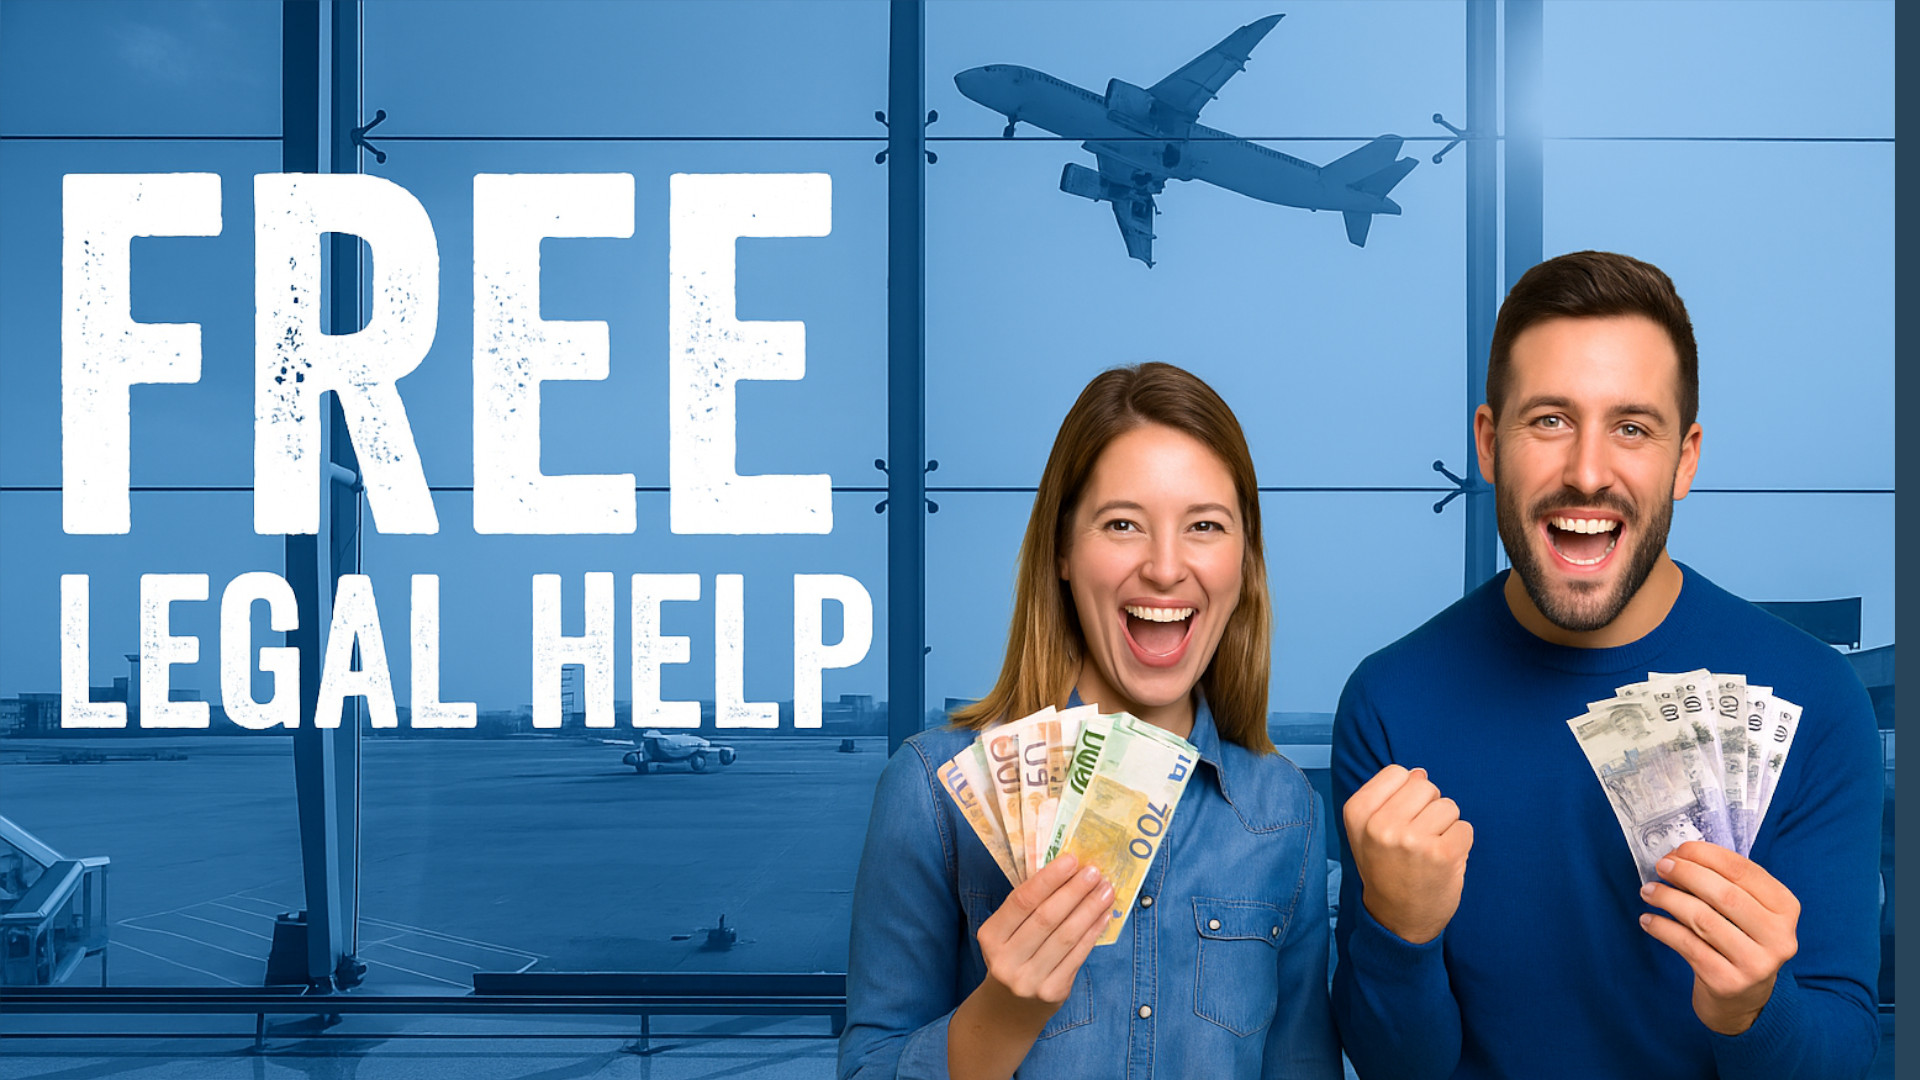
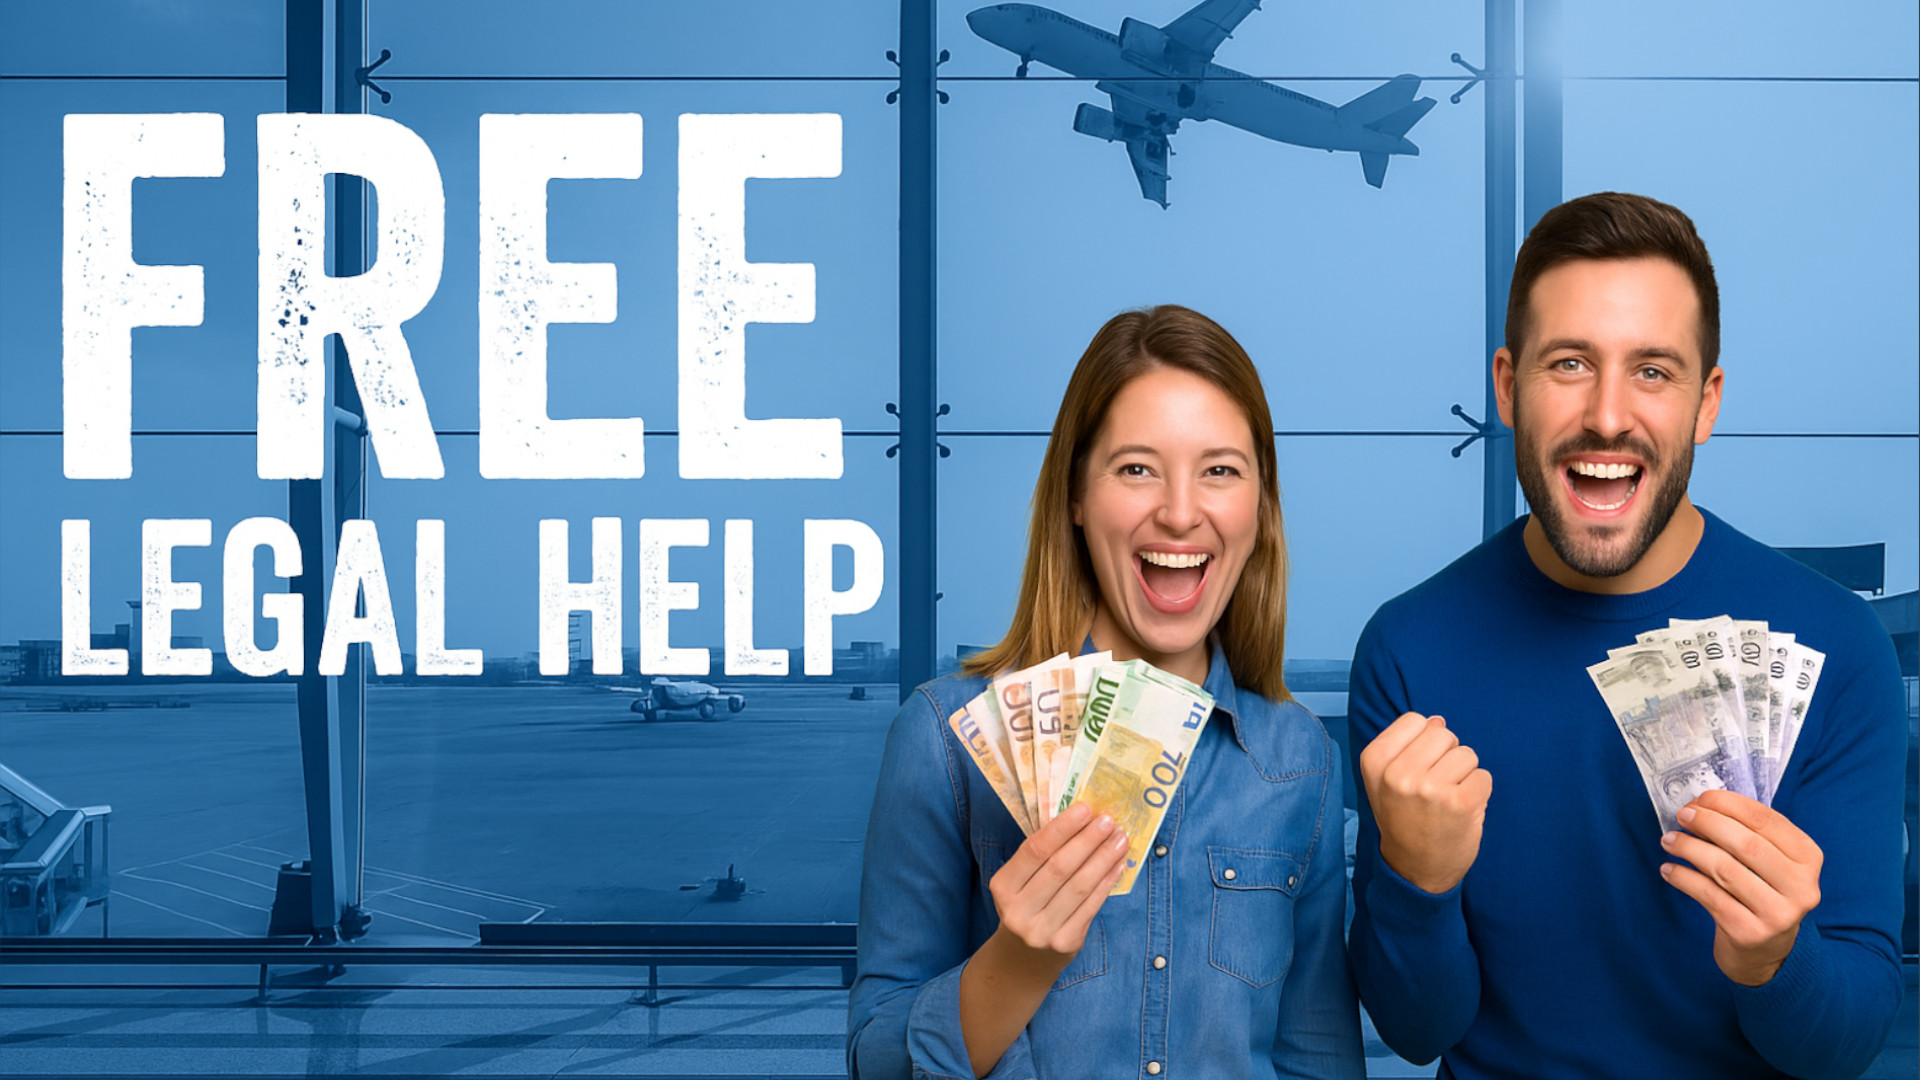
Mobile layout fix

diff --git a/public/test3.html b/public/test3.html
@@ -79,11 +79,10 @@
 <!-- Hero Section -->
 <section class="relative w-full h-screen overflow-hidden">
   <img src="images/hero-flight2.jpg" alt="Free Legal Help Banner"
-       class="absolute inset-0 w-full h-full object-cover object-center" 
+       class="absolute inset-0 w-full h-full object-cover object-center"
        loading="eager" fetchpriority="high" />
 
-  <!-- Overlay (optional for contrast) -->
-  <div class="absolute inset-0 bg-blue-900 bg-opacity-60"></div>
+  <!-- Overlay removed -->
 
   <!-- Content on top -->
   <div class="relative z-10 flex flex-col items-center justify-center h-full px-4 text-center text-white">
